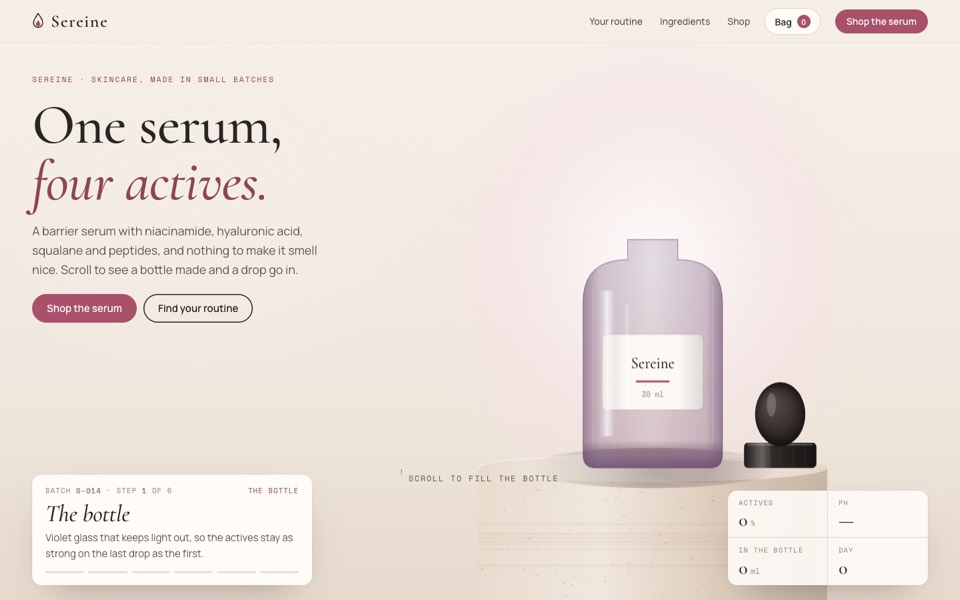
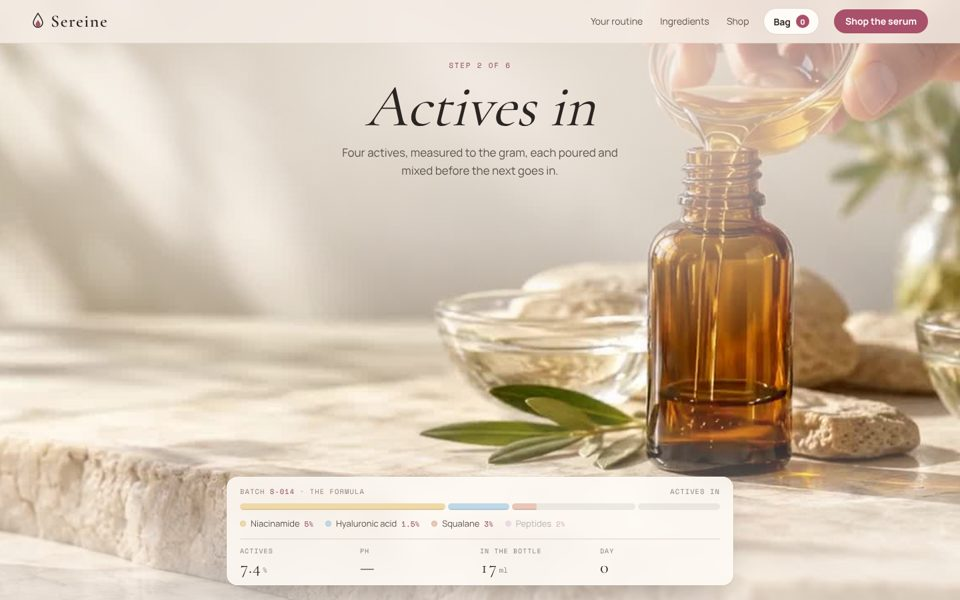
Sereine redesigned v5: the real bottle is filled under a campaign headline while the formula label fills active by active
Claude-Session: https://claude.ai/code/session_0133g3z4wqTvWj4LLKkZ92ba

diff --git a/design-packages/design/sereine/template.html b/design-packages/design/sereine/template.html
@@ -1,11 +1,12 @@
 <!doctype html><html><head><meta charset=utf8><meta name=viewport content="width=device-width,initial-scale=1,viewport-fit=cover"><style>:root{color-scheme:light;box-sizing:border-box;padding-top:env(safe-area-inset-top,0px);padding-bottom:env(safe-area-inset-bottom,0px)}html{scroll-padding-top:env(safe-area-inset-top,0px)}body{margin:0;padding:0;font:14px -apple-system,BlinkMacSystemFont,sans-serif;background:#fff;color:#000}img{max-width:100%}[hidden]:not([hidden=until-found i]){display:none!important}</style></head><body>
 <title>{{business.name}}</title>
+<meta name="description" content="{{hero.lede|attr}}">
 <link rel="preconnect" href="https://fonts.googleapis.com">
 <link rel="preconnect" href="https://fonts.gstatic.com" crossorigin>
 <link href="https://fonts.googleapis.com/css2?family=Cormorant:ital,wght@0,500;0,600;1,500&family=Manrope:wght@400;500;600;700&family=Space+Mono:wght@400&display=swap" rel="stylesheet">
 <style>
-/* Layout: a skincare brand's shop. One pinned product shot where the serum is made, sealed and applied as you scroll,
-   down to a drop sinking into skin and four weeks later; then what a buyer needs: their routine, what's inside, and the
+/* Layout: a skincare brand's shop. The real bottle is filled and capped on screen as you scroll (the brand's own video
+   or photos), headlined like a campaign, while the formula label below fills active by active; then what a buyer needs: their routine, what's inside, and the
    shop. */
 :root{
   color-scheme:light;
@@ -58,47 +59,61 @@ p{margin:0}
 @media (max-width:980px){.nav ul{display:none}.bagbtn{margin-left:auto}}
 @media (max-width:560px){.nav .btn{display:none}.brand{font-size:23px}}
 
-/* hero: the studio */
+/* hero: the real bottle, a campaign headline over it, and the formula label filling below */
 .hero{position:relative;height:560vh}
 .stage{position:sticky;top:0;height:100vh;height:100svh;overflow:hidden;background:var(--clay)}
-#shot{position:absolute;inset:0;width:100%;height:100%;display:block}
-.hero-copy{position:absolute;left:var(--gut);top:calc(env(safe-area-inset-top,0px) + 112px);max-width:520px;z-index:3;display:grid;gap:18px;will-change:transform,opacity}
-.hero-copy::before{content:"";position:absolute;z-index:-1;inset:-110px -150px -90px calc(-1 * var(--gut) - 60px);background:radial-gradient(closest-side,rgba(244,237,230,.94),rgba(244,237,230,.74) 55%,rgba(244,237,230,0));pointer-events:none}
-.hero h1{font-size:clamp(3rem,min(6vw,9.4vh),6rem)}
-.hero h1 em{display:block;color:var(--accent-text)}
-.lede{color:var(--ink-2);max-width:42ch;font-size:clamp(16px,1.3vw,18px)}
-.hero .acts{display:flex;gap:10px;flex-wrap:wrap;margin-top:4px}
-.label{position:absolute;z-index:4;left:var(--gut);bottom:calc(22px + env(safe-area-inset-bottom,0px));width:min(420px,calc(100% - 2*var(--gut)));padding:18px 20px;background:var(--sheet);border-radius:14px;box-shadow:0 24px 60px -30px rgba(42,37,34,.45),0 0 0 1px rgba(42,37,34,.05)}
-.label .row{display:flex;justify-content:space-between;gap:10px;font:400 11px/1.2 var(--f-mono);letter-spacing:.08em;text-transform:uppercase;color:var(--muted)}
-.label .when{color:var(--accent-text)}
-.label h3{font-size:clamp(28px,2.6vw,36px);margin-top:10px;font-style:italic}
-.label p{color:var(--ink-2);font-size:15px;margin-top:6px;min-height:3.1em}
-.dots{display:grid;grid-template-columns:repeat(6,minmax(0,1fr));gap:6px;margin:14px 0 0;padding:0;list-style:none}
-.dots li{position:relative;height:3px;border-radius:2px;background:var(--clay-2);overflow:hidden}
-.dots li::after{content:"";position:absolute;inset:0;transform-origin:0 50%;transform:scaleX(var(--f,0));background:var(--accent)}
-.facts{position:absolute;z-index:4;right:var(--gut);bottom:calc(22px + env(safe-area-inset-bottom,0px));display:grid;grid-template-columns:repeat(2,minmax(0,1fr));margin:0;min-width:300px;background:rgba(255,251,247,.9);backdrop-filter:blur(10px);-webkit-backdrop-filter:blur(10px);border-radius:14px;box-shadow:0 24px 60px -30px rgba(42,37,34,.45),0 0 0 1px rgba(42,37,34,.05);overflow:hidden}
-.facts div{padding:12px 16px;border-right:1px solid var(--line);border-bottom:1px solid var(--line);min-width:0}
-.facts div:nth-child(2n){border-right:0}
-.facts div:nth-child(n+3){border-bottom:0}
-.facts dt{font:400 10.5px/1.2 var(--f-mono);letter-spacing:.1em;text-transform:uppercase;color:var(--muted)}
-.facts dd{margin:6px 0 0;font:500 28px/1 var(--f-display);font-variant-numeric:tabular-nums;white-space:nowrap}
-.facts dd small{font:400 12px var(--f-mono);color:var(--muted);margin-left:4px}
-.hint{position:absolute;z-index:4;left:50%;bottom:calc(170px + env(safe-area-inset-bottom,0px));transform:translateX(-50%);font:400 12px var(--f-mono);letter-spacing:.14em;text-transform:uppercase;color:var(--ink-2);display:flex;align-items:center;gap:10px;pointer-events:none}
-.hint i{display:block;width:1px;height:26px;background:linear-gradient(var(--ink-2),transparent);animation:cue 1.6s ease-in-out infinite}
+#shot{display:none}
+.stage .poster,#film{position:absolute;inset:0;width:100%;height:100%;display:block;z-index:0}
+.stage .poster{object-fit:cover}
+.veil{position:absolute;inset:0;z-index:1;pointer-events:none;background:radial-gradient(70% 46% at 50% 14%,rgba(244,237,230,.9),rgba(244,237,230,.55) 55%,rgba(244,237,230,0)),linear-gradient(0deg,rgba(244,237,230,.75),rgba(244,237,230,0) 34%)}
+.hero-copy{position:absolute;left:50%;top:calc(env(safe-area-inset-top,0px) + 96px);width:min(760px,calc(100% - 2*var(--gut)));transform:translateX(-50%);z-index:3;display:grid;justify-items:center;text-align:center;gap:16px;will-change:transform,opacity}
+.hero h1{font-size:clamp(3rem,min(6.6vw,10vh),6.6rem)}
+.hero h1 em{color:var(--accent-text)}
+.lede{color:var(--ink-2);max-width:48ch;font-size:clamp(16px,1.3vw,18px)}
+.hero .acts{display:flex;gap:10px;flex-wrap:wrap;justify-content:center;margin-top:4px}
+.split .w{display:inline-block;overflow:hidden;vertical-align:top;padding-bottom:.22em;margin-bottom:-.14em}
+.split .w>i{display:inline-block;font-style:inherit;animation:wrise .9s cubic-bezier(.16,1,.3,1) both}
+@keyframes wrise{from{transform:translateY(108%)}}
+.hint{position:absolute;z-index:4;left:50%;bottom:calc(206px + env(safe-area-inset-bottom,0px));transform:translateX(-50%);font:400 11px var(--f-mono);letter-spacing:.14em;text-transform:uppercase;color:var(--muted);display:flex;align-items:center;gap:10px;pointer-events:none}
+.hint i{display:block;width:1px;height:22px;background:linear-gradient(var(--muted),transparent);animation:cue 1.6s ease-in-out infinite}
 @keyframes cue{0%{transform:scaleY(.2);transform-origin:top}50%{transform:scaleY(1);transform-origin:top}100%{transform:scaleY(.2);transform-origin:bottom}}
+/* the campaign line: each step's name, set big and italic where the title was */
+.fcap{position:absolute;z-index:3;left:50%;top:calc(env(safe-area-inset-top,0px) + 92px);width:min(760px,calc(100% - 2*var(--gut)));transform:translateX(-50%);text-align:center;display:grid;justify-items:center;gap:10px;opacity:0;visibility:hidden;transition:opacity .45s,visibility .45s}
+.fcap.on{opacity:1;visibility:visible}
+.fcap .k{font:400 11px/1.2 var(--f-mono);letter-spacing:.16em;text-transform:uppercase;color:var(--accent-text)}
+.fcap h2{font:italic 500 clamp(3rem,min(6.4vw,10vh),6.4rem)/1 var(--f-display)}
+.fcap h2.in{animation:capin .7s cubic-bezier(.16,1,.3,1) both}
+@keyframes capin{from{opacity:0;transform:translateY(.25em);filter:blur(6px)}}
+.fcap p{color:var(--ink-2);max-width:44ch;font-size:clamp(15px,1.2vw,17px);min-height:3.2em}
+/* the formula label: a band per active, as wide as its share, filling as it's poured in */
+.fml{position:absolute;z-index:4;left:50%;bottom:calc(22px + env(safe-area-inset-bottom,0px));transform:translateX(-50%);width:min(760px,calc(100% - 2*var(--gut)));padding:16px 20px 14px;background:rgba(255,251,247,.86);backdrop-filter:blur(14px);-webkit-backdrop-filter:blur(14px);border-radius:16px;box-shadow:0 24px 60px -30px rgba(42,37,34,.45),0 0 0 1px rgba(42,37,34,.06)}
+.fml-hd{display:flex;justify-content:space-between;gap:10px;font:400 10.5px/1.2 var(--f-mono);letter-spacing:.1em;text-transform:uppercase;color:var(--muted)}
+.fml-hd b{color:var(--accent-text);font-weight:400}
+.fbar{display:flex;gap:4px;margin-top:12px}
+.fbar .act{flex:var(--w) 1 0;min-width:0}
+.fbar .act i{display:block;height:10px;border-radius:5px;background:rgba(42,37,34,.08);overflow:hidden;position:relative}
+.fbar .act i::after{content:"";position:absolute;inset:0;background:var(--c);box-shadow:inset 0 -2px 0 rgba(0,0,0,.08);transform-origin:0 50%;transform:scaleX(var(--f,0))}
+.flegend{display:flex;flex-wrap:wrap;gap:6px 18px;margin-top:10px}
+.flegend span{display:inline-flex;align-items:center;gap:7px;font-size:13px;color:var(--ink-2);opacity:.42;transition:opacity .3s}
+.flegend span::before{content:"";width:9px;height:9px;border-radius:50%;background:var(--c);box-shadow:inset 0 0 0 1px rgba(0,0,0,.08)}
+.flegend span b{font:400 11px var(--f-mono);color:var(--accent-text)}
+.flegend span.in{opacity:1}
+.fread{display:grid;grid-template-columns:repeat(4,minmax(0,1fr));margin:12px 0 0;padding-top:12px;border-top:1px solid var(--line)}
+.fread dt{font:400 10px/1.2 var(--f-mono);letter-spacing:.1em;text-transform:uppercase;color:var(--muted)}
+.fread dd{margin:5px 0 0;font:500 26px/1 var(--f-display);font-variant-numeric:tabular-nums;white-space:nowrap}
+.fread dd small{font:400 11px var(--f-mono);color:var(--muted);margin-left:3px}
 @media (max-width:820px){
-  .hero-copy{top:calc(env(safe-area-inset-top,0px) + 84px);max-width:none;right:var(--gut);gap:14px}
+  .veil{background:radial-gradient(120% 40% at 50% 12%,rgba(244,237,230,.92),rgba(244,237,230,.5) 60%,rgba(244,237,230,0)),linear-gradient(0deg,rgba(244,237,230,.8),rgba(244,237,230,0) 40%)}
+  .hero-copy{top:calc(env(safe-area-inset-top,0px) + 80px);gap:12px}
   .hero .acts{display:none}
-  .facts{left:var(--gut);right:var(--gut);min-width:0;grid-template-columns:repeat(4,minmax(0,1fr));bottom:calc(186px + env(safe-area-inset-bottom,0px))}
-  .facts div{padding:9px 10px;border-bottom:0}
-  .facts div:nth-child(2n){border-right:1px solid var(--line)}
-  .facts div:last-child{border-right:0}
-  .facts dt{font-size:9px;letter-spacing:.04em}
-  .facts dd{font-size:clamp(18px,5vw,22px)}
-  .facts dd small{display:none}
-  .label{bottom:calc(14px + env(safe-area-inset-bottom,0px));padding:14px 16px}
-  .label p{font-size:14px;min-height:4.4em}
   .hint{display:none}
+  .fcap{top:calc(env(safe-area-inset-top,0px) + 78px)}
+  .fcap h2{font-size:clamp(2.4rem,11vw,3.2rem)}
+  .fcap p{font-size:14px}
+  .fml{padding:12px 14px 10px;border-radius:12px}
+  .flegend{gap:4px 12px}
+  .flegend span{font-size:11.5px}
+  .fread dd{font-size:20px}
 }
 
 /* sections */
@@ -215,27 +230,30 @@ footer{background:var(--ink);color:var(--clay);padding:clamp(70px,9vw,120px) var
 </nav>
 
 <main>
-<section class="hero" id="top" aria-label="The serum made, sealed and applied, scroll to run it">
+<section class="hero" id="top" aria-label="The serum made, sealed and applied; scroll to run it">
   <div class="stage" id="stage">
     <canvas id="shot" aria-hidden="true"></canvas>
+{{#if $.film.poster}}    <img class="poster" src="{{$.film.poster|attr}}" alt="" aria-hidden="true">
+{{/if}}    <canvas id="film" role="img" aria-label="A bottle of {{brand.name|attr}} serum filled and capped with a dropper"></canvas>
+    <div class="veil" aria-hidden="true"></div>
     <div class="hero-copy" id="heroCopy">
       <p class="eyebrow">{{hero.eyebrow}}</p>
       <h1>{{hero.title}} <em>{{hero.titleEm}}</em></h1>
       <p class="lede">{{hero.lede}}</p>
       <div class="acts"><a class="btn" href="#shop">{{hero.cta}}</a><a class="btn ghost" href="#routine">{{hero.cta2}}</a></div>
     </div>
+    <div class="fcap" id="fcap" aria-live="polite"><span class="k" id="cK">Step 1 of 6</span><h2 id="cN">{{stages.0.n}}</h2><p id="cT">{{stages.0.c}}</p></div>
     <div class="hint" id="hint"><i></i>{{hero.hint}}</div>
-    <dl class="facts" id="facts" aria-live="off">
-      <div><dt>Actives</dt><dd id="xAct">0<small>%</small></dd></div>
-      <div><dt>pH</dt><dd id="xPh">—</dd></div>
-      <div><dt>In the bottle</dt><dd id="xMl">0<small>ml</small></dd></div>
-      <div><dt>Day</dt><dd id="xDay">0</dd></div>
-    </dl>
-    <div class="label" id="label" aria-live="polite">
-      <div class="row"><span>Batch <b id="lBatch">{{batch.ref}}</b> · Step <b id="lNum">1</b> of 6</span><span class="when" id="lWhen">{{stages.0.n}}</span></div>
-      <h3 id="lTitle">{{stages.0.n}}</h3>
-      <p id="lText">{{stages.0.c}}</p>
-      <ol class="dots" id="dots" aria-hidden="true"></ol>
+    <div class="fml" id="fml">
+      <div class="fml-hd"><span>Batch <b>{{batch.ref}}</b> · the formula</span><span id="fStep">{{stages.0.n}}</span></div>
+      <div class="fbar" id="fbar" aria-hidden="true"></div>
+      <div class="flegend" id="flegend"></div>
+      <dl class="fread">
+        <div><dt>Actives</dt><dd id="xAct">0<small>%</small></dd></div>
+        <div><dt>pH</dt><dd id="xPh">—</dd></div>
+        <div><dt>In the bottle</dt><dd id="xMl">0<small>ml</small></dd></div>
+        <div><dt>Day</dt><dd id="xDay">0</dd></div>
+      </dl>
     </div>
   </div>
 </section>
@@ -338,6 +356,7 @@ const GLASS={{batch.glass|upper|js}};           // the bottle's tinted glass
 const ACCENT='{{A:#A9506A}}';
 
 /* ============ BOTTLES (shared with the shop and the routine) ============ */
+const DPR=Math.min(devicePixelRatio||1,2);
 // kind: dropper | pump | jar | tube; fill 0..1 with layers [{col, frac}] from the bottom
 // glass: tinted, darker where it's thickest at the edges, a heavy base, the studio light's two reflections down the side
 function glassBody(c,path,x0,x1,y0,y1,glass){const g=c.createLinearGradient(x0,0,x1,0);g.addColorStop(0,rgba(glass,.62));g.addColorStop(.12,rgba(glass,.3));g.addColorStop(.5,rgba(glass,.18));g.addColorStop(.88,rgba(glass,.32));g.addColorStop(1,rgba(glass,.66));c.fillStyle=g;c.fill(path);
@@ -388,115 +407,47 @@ function shine(c,x,y,h,s){const g=c.createLinearGradient(x,0,x+s*.05,0);g.addCol
   const g2=c.createLinearGradient(x+s*.08,0,x+s*.1,0);g2.addColorStop(0,'rgba(255,255,255,0)');g2.addColorStop(.5,'rgba(255,255,255,.3)');g2.addColorStop(1,'rgba(255,255,255,0)');c.fillStyle=g2;c.fillRect(x+s*.08,y+h*.1,s*.02,h*.7);}
 window.SR_bottle=(c,cx,base,h,o)=>bottle(0,c,cx,base,h,o);
 
-/* ============ THE STUDIO ============ */
-const cv=$('#shot'), ctx=cv.getContext('2d');
-let W=0,H=0,DPR=1,mobile=false,G={};
-function layout(){W=cv.clientWidth;H=cv.clientHeight;DPR=Math.min(devicePixelRatio||1,TOUCH?1.5:2);cv.width=Math.round(W*DPR);cv.height=Math.round(H*DPR);mobile=W<820;
-  // the bottle starts centre stage and steps aside (off the screen on a phone) when the skin window comes in
-  G=mobile?{h:Math.min(H*.3,W*.66),bx0:W*.5,bx1:-W*.9,base:H*.64,skin:[W*.06,H*.3,W*.88,H*.32]}:{h:Math.min(H*.56,W*.33),bx0:W*.68,bx1:W*.5,base:H*.78,skin:[W*.64,H*.3,W*.3,H*.46]};G.bx=G.bx0;last=-1;}
-function sweep(p,time){const g=ctx.createLinearGradient(0,0,0,H);g.addColorStop(0,'#F7F1EB');g.addColorStop(.7,'#EFE5DB');g.addColorStop(1,'#E6D9CD');ctx.fillStyle=g;ctx.fillRect(0,0,W,H);
-  // a soft disc of light behind the product
-  const cx=G.bx, cy=mobile?H*.34:H*.44, r=mobile?W*.5:Math.min(W*.24,H*.42);const dg=ctx.createRadialGradient(cx,cy,0,cx,cy,r);dg.addColorStop(0,'rgba(255,255,255,.9)');dg.addColorStop(.7,'rgba(246,227,231,.5)');dg.addColorStop(1,'rgba(246,227,231,0)');ctx.fillStyle=dg;ctx.fillRect(0,0,W,H);
-  // the plinth: a round column, lit from the left
-  // the plinth: a column of travertine, lit from the left, its pores and bands, a soft edge on the top
-  const pw=G.h*1.15, ph=G.h*.12;const cg=ctx.createLinearGradient(G.bx-pw/2,0,G.bx+pw/2,0);cg.addColorStop(0,'#E9DCCF');cg.addColorStop(.35,'#F1E7DD');cg.addColorStop(.7,'#DCCBBB');cg.addColorStop(1,'#C9B6A5');ctx.fillStyle=cg;ctx.fillRect(G.bx-pw/2,G.base,pw,H);
-  const rs=rng(61);ctx.save();ctx.beginPath();ctx.rect(G.bx-pw/2,G.base,pw,H);ctx.clip();for(let i=0;i<9;i++){const yy=G.base+rs()*(H-G.base);ctx.fillStyle=`rgba(170,140,115,${.05+rs()*.06})`;ctx.fillRect(G.bx-pw/2,yy,pw,1+rs()*3);}for(let i=0;i<260;i++){ctx.fillStyle=`rgba(150,120,95,${.12+rs()*.18})`;ctx.beginPath();ctx.ellipse(G.bx-pw/2+rs()*pw,G.base+rs()*(H-G.base),.6+rs()*1.8,.4+rs()*.8,0,0,7);ctx.fill();}ctx.restore();
-  const tg=ctx.createRadialGradient(G.bx-pw*.15,G.base-ph*.1,0,G.bx,G.base,pw*.55);tg.addColorStop(0,'#F8F2EB');tg.addColorStop(1,'#E4D6C8');ctx.fillStyle=tg;ctx.beginPath();ctx.ellipse(G.bx,G.base,pw/2,ph*.35,0,0,7);ctx.fill();ctx.strokeStyle='rgba(255,255,255,.6)';ctx.lineWidth=1;ctx.beginPath();ctx.ellipse(G.bx,G.base,pw/2-1,ph*.35-1,0,Math.PI*.95,Math.PI*1.9);ctx.stroke();}
+/* ============ THE FILM ============ */
+const hero=$('#top'), copy=$('#heroCopy'), hint=$('#hint'), fcap=$('#fcap'), cN=$('#cN');
+const STILL=/[?&]still\b/.test(location.search), FLAT=RM||STILL;
+if(FLAT)document.documentElement.classList.add('flat');
+{{$.film.runtime|raw}}
+const film=SRFilm($('#film'),{{$.film.json|raw}},{flat:FLAT,fx:.62,fy:.5});
+let inFrame=false;try{inFrame=window.self!==window.top}catch(e){inFrame=true}
+let AUTO=inFrame&&scrollY<1&&!FLAT;
+if(AUTO)addEventListener('scroll',()=>{if(AUTO&&scrollY>=1){AUTO=false;film.poke()}},{passive:true});
 
-/* the skin, in cross-section: a barrier of flat cells, living cells below, fibres at the bottom */
-const cells=[...Array(90)].map((_,i)=>{const r=rng(500+i);return{x:r(),y:r(),s:.5+r()*.6,jx:(r()-.5),jy:(r()-.5)};});
-// the section as it looks under a microscope, stained: living layers packed with cells and their nuclei, the
-// basal layer dipping into the dermis, collagen and a capillary below (drawn once per size)
-let SKB=null;
-function skinBase(w,h){if(SKB&&SKB.w===w&&SKB.h===h)return SKB.c;const c=document.createElement('canvas');c.width=Math.round(w*DPR);c.height=Math.round(h*DPR);const g=c.getContext('2d');g.setTransform(DPR,0,0,DPR,0,0);const r=rng(77);
-  g.fillStyle='#F7EAEC';g.fillRect(0,0,w,h);
-  const basal=t=>h*(.62+.05*Math.sin(t*Math.PI*6+.6)+.015*Math.sin(t*Math.PI*17));
-  // dermis: loose pink collagen in wavy bundles, fibroblast nuclei, a capillary with red cells
-  {g.save();g.beginPath();g.moveTo(0,h);for(let t=0;t<=1.0001;t+=.01)g.lineTo(t*w,basal(t));g.lineTo(w,h);g.closePath();g.clip();g.fillStyle='#F2D3DA';g.fillRect(0,0,w,h);
-   for(let i=0;i<120;i++){const y0=h*(.62+r()*.4), x0=r()*w, L=w*(.08+r()*.25);g.strokeStyle=`rgba(214,120,150,${.15+r()*.25})`;g.lineWidth=.8+r()*1.6;g.beginPath();g.moveTo(x0,y0);for(let t=0;t<=1;t+=.1)g.lineTo(x0+t*L,y0+Math.sin(t*6+i)*h*.008);g.stroke();}
-   for(let i=0;i<26;i++){const px=r()*w, py=h*(.72+r()*.26);g.fillStyle='rgba(92,55,120,.75)';g.beginPath();g.ellipse(px,py,w*(.01+r()*.008),h*.0045,r()*.4-.2,0,7);g.fill();}
-   const cx=w*.7, cy=h*.84, cr=w*.045;g.strokeStyle='rgba(190,90,120,.7)';g.lineWidth=2;g.beginPath();g.arc(cx,cy,cr,0,7);g.stroke();g.fillStyle='rgba(250,235,238,.9)';g.beginPath();g.arc(cx,cy,cr-1,0,7);g.fill();for(let i=0;i<6;i++){const a=i*1.1;g.fillStyle='rgba(205,70,85,.85)';g.beginPath();g.ellipse(cx+Math.cos(a)*cr*.45,cy+Math.sin(a)*cr*.45,cr*.22,cr*.16,a,0,7);g.fill();}g.restore();}
-  // living epidermis: polygonal cells with pale cytoplasm, a purple nucleus each, flatter towards the top
-  {g.save();g.beginPath();g.moveTo(0,h*.33);g.lineTo(w,h*.33);for(let t=1;t>=0;t-=.01)g.lineTo(t*w,basal(t));g.closePath();g.clip();g.fillStyle='#F4DCE4';g.fillRect(0,0,w,h);
-   for(let row=0;row<14;row++){const yy=h*(.34+row*.024), flat=1-row/14;for(let i=0;i<22;i++){const px=(i+(row%2)*.5+(r()-.5)*.3)/22*w, py=yy+(r()-.5)*h*.008, cw=w/22*.48, ch=h*(.009+.01*(1-flat));g.fillStyle=`rgba(236,190,206,${.55+r()*.3})`;g.beginPath();g.ellipse(px,py,cw,ch,0,0,7);g.fill();g.strokeStyle='rgba(200,130,160,.35)';g.lineWidth=.8;g.stroke();
-      g.fillStyle=row<3?'rgba(70,35,90,.75)':'rgba(92,55,130,.78)';g.beginPath();g.ellipse(px+(r()-.5)*cw*.3,py,cw*(row<3?.5:.32),ch*(row<3?.25:.55),0,0,7);g.fill();if(row<3){g.fillStyle='rgba(60,30,80,.6)';for(let k=0;k<3;k++){g.beginPath();g.arc(px+(r()-.5)*cw*1.4,py+(r()-.5)*ch,.9,0,7);g.fill();}}}}
-   g.restore();}
-  // the basal row: dense, dark nuclei along the wavy border
-  for(let t=0;t<=1;t+=.012){const px=t*w, py=basal(t)-h*.012;g.fillStyle='rgba(70,40,110,.85)';g.beginPath();g.ellipse(px,py,w*.006,h*.011,Math.cos(t*Math.PI*6)*.4,0,7);g.fill();}
-  g.strokeStyle='rgba(180,100,140,.5)';g.lineWidth=1.2;g.beginPath();for(let t=0;t<=1.0001;t+=.01){const p=[t*w,basal(t)];t?g.lineTo(...p):g.moveTo(...p);}g.stroke();
-  SKB={c,w,h};return c;}
-function skin(a,f,time){if(a<=0)return;const [x,y,w,h]=G.skin;ctx.save();ctx.globalAlpha=a;
-  ctx.shadowColor='rgba(60,40,30,.25)';ctx.shadowBlur=30;ctx.shadowOffsetY=10;ctx.fillStyle='#F6E4DA';rr(ctx,x,y,w,h,22);ctx.fill();ctx.shadowColor='transparent';
-  rr(ctx,x,y,w,h,22);ctx.clip();
-  const heal=sm(seg(f[5],.1,.8)), drop=seg(f[4],0,1);
-  ctx.drawImage(skinBase(w,h),x,y,w,h);
-  // the barrier on top: thin, flattened layers in a basket-weave, open and lifting where it's damaged, closed once it heals
-  const rows=7, top=y+h*.12, gap=lerp(1,0,heal);
-  for(let r2=0;r2<rows;r2++){const R=rng(r2*31+9), yb=top+r2*h*(.028+gap*.006);ctx.strokeStyle=`rgba(${Math.round(lerp(222,232,heal))},${Math.round(lerp(140,160,heal))},${Math.round(lerp(170,180,heal))},${.75+.2*heal})`;ctx.lineWidth=Math.max(1.4,h*.012);ctx.lineCap='round';
-    let px=x-10;while(px<x+w+10){const L=w*(.12+R()*.2)*(1+heal*1.5), br=w*(.015+R()*.03)*gap;ctx.beginPath();for(let t=0;t<=1.0001;t+=.1){const xx=px+t*L, yy=yb+Math.sin((xx-x)/w*14+r2*1.7)*h*.004*(1+gap*2)-(gap*R()*h*.012)*Math.sin(t*Math.PI);t?ctx.lineTo(xx,yy):ctx.moveTo(xx,yy);}ctx.stroke();px+=L+br;}}
-  // the surface line, rough then smooth
-  ctx.strokeStyle='rgba(170,110,100,.5)';ctx.lineWidth=2;ctx.beginPath();for(let t=0;t<=1;t+=.02){const xx=x+t*w, yy=top-6+Math.sin(t*40)*3*(1-heal)+Math.sin(t*13)*2*(1-heal);t?ctx.lineTo(xx,yy):ctx.moveTo(xx,yy);}ctx.stroke();
-  // the drop sinking in: it lands, flattens, then its actives spread down as specks
-  if(drop>0){const cx=x+w/2;const land=sm(seg(drop,0,.25));const r0=w*.06;ctx.fillStyle=`rgba(255,255,255,${.75*(1-seg(drop,.3,.7))})`;ctx.beginPath();ctx.ellipse(cx,top-6-r0*.4*(1-land),r0*(1+land*1.8),r0*.5*(1-land*.6),0,0,7);ctx.fill();
-    const sp=sm(seg(drop,.25,1));for(let i=0;i<70;i++){const R=rng(900+i);const act=ACTIVES[i%ACTIVES.length];const d=sp*(.3+R()*.7);const ang=(R()-.5)*1.6;const px=cx+Math.sin(ang)*w*.45*d, py=top+h*.5*d*(.4+R()*.6);ctx.fillStyle=rgba(act.col,.95*(1-heal*.6));ctx.beginPath();ctx.arc(px,py,Math.max(2.4,w*.011),0,7);ctx.fill();}
-    // rings where it went in
-    const rg=seg(drop,.2,.9);if(rg>0&&rg<1)for(let k=0;k<3;k++){const t=clamp(rg*1.3-k*.15);if(t<=0||t>=1)continue;ctx.strokeStyle=rgba(ACCENT,.45*(1-t));ctx.lineWidth=2;ctx.beginPath();ctx.ellipse(cx,top-6,w*.08+w*.3*t,h*.02+h*.05*t,0,0,7);ctx.stroke();}}
-  // a glow once it has worked
-  if(heal>0){const g=ctx.createLinearGradient(0,y,0,y+h*.4);g.addColorStop(0,`rgba(255,240,235,${.5*heal})`);g.addColorStop(1,'rgba(255,240,235,0)');ctx.fillStyle=g;ctx.fillRect(x,y,w,h*.4);}
-  ctx.restore();
-  // the window's caption
-  ctx.save();ctx.globalAlpha=a;ctx.fillStyle='#8D817A';ctx.font='400 11px "Space Mono",monospace';ctx.fillText(heal>.5?'SKIN · DAY '+DAYS:'SKIN · CROSS-SECTION',x+4,y-10);ctx.restore();}
-
-/* ============ HUD ============ */
-const dl=$('#dots');STAGES.forEach(()=>dl.appendChild(document.createElement('li')));
-const dotEls=[...dl.children];let shown=-1;
+/* ============ THE FORMULA ============ */
+const esc=s=>String(s).replace(/[<>&"]/g,c=>({'<':'&lt;','>':'&gt;','&':'&amp;','"':'&quot;'}[c]));
+$('#fbar').innerHTML=ACTIVES.map(a=>`<div class="act" style="--w:${Math.max(a.pct,1.2)};--c:${a.col}"><i></i></div>`).join('');
+$('#flegend').innerHTML=ACTIVES.map(a=>`<span style="--c:${a.col}">${esc(a.n)} <b>${a.pct}%</b></span>`).join('');
+const acts=[...$('#fbar').children], keys=[...$('#flegend').children];let shown=-1;
 function hud(p,f,poured){let idx=0;STAGES.forEach((s,i)=>{if(p>=s.w[0])idx=i;});
-  if(idx!==shown){shown=idx;$('#lNum').textContent=idx+1;$('#lTitle').textContent=STAGES[idx].n;$('#lText').textContent=STAGES[idx].c;$('#lWhen').textContent=STAGES[idx].n;}
-  dotEls.forEach((li,i)=>li.style.setProperty('--f',f[i].toFixed(3)));
+  if(idx!==shown){shown=idx;$('#cK').textContent=`Step ${idx+1} of ${STAGES.length}`;cN.textContent=STAGES[idx].n;$('#cT').textContent=STAGES[idx].c;$('#fStep').textContent=STAGES[idx].n;
+    if(!FLAT){cN.classList.remove('in');void cN.offsetWidth;cN.classList.add('in');}}
+  acts.forEach((el,i)=>{const k=clamp(poured-i);el.style.setProperty('--f',sm(k).toFixed(3));keys[i].classList.toggle('in',k>0);});
   const act=ACTIVES.reduce((a,x,i)=>a+x.pct*clamp(poured-i),0);$('#xAct').innerHTML=`${(Math.round(act*10)/10).toString()}<small>%</small>`;
   $('#xPh').textContent=f[2]>.3?PH.toFixed(1):'—';$('#xMl').innerHTML=`${Math.round(ML*clamp(poured/ACTIVES.length))}<small>ml</small>`;
   $('#xDay').textContent=Math.round(DAYS*sm(seg(f[5],.1,.8)));}
 
 /* ============ FRAME ============ */
-const hero=$('#top'), copy=$('#heroCopy'), hint=$('#hint');
-let cur=0,last=-1;const t0=performance.now();
+let cur=0;const t0=performance.now();
+const mobile=()=>innerWidth<820;
 function frame(p,time){
-  ctx.setTransform(DPR,0,0,DPR,0,0);
-  const f=STAGES.map(s=>seg(p,s.w[0],s.w[1]));
-  G.bx=lerp(G.bx0,G.bx1,sm(seg(f[3],0,.35)));
-  sweep(p,time);
-  // pouring: each active in turn, a stream from above then its layer
-  const n=ACTIVES.length, poured=f[1]*n;
-  const layers=ACTIVES.map((a,i)=>({col:a.col,frac:clamp(poured-i)*(1/n)*.86}));
-  // the cap stands on the plinth beside the bottle, is lifted on in an arc, and later carried to the skin
-  const on=sm(seg(f[2],.1,.7)), out=sm(seg(f[3],0,.4)), back=sm(seg(f[4],.35,.95));
-  const capX=lerp(G.h*.42,0,on), capLift=lerp(-G.h*.665,0,on)+Math.sin(on*Math.PI)*G.h*.35;
-  // the dropper travels to the skin window and back
-  const [sx,sy,sw]=G.skin;const tx=sx+sw/2-G.bx, ty=G.base-G.h*.68-(sy-G.h*.2);
-  const trav=out*(1-back);const dropCapX=lerp(capX,tx,trav), dropLift=lerp(capLift,ty,trav)+trav*G.h*.05;
-  const squeeze=sm(seg(f[3],.45,.65))*(1-seg(f[3],.75,.9));
-  bottle(0,ctx,G.bx,G.base,G.h,{kind:'dropper',layers,capX:on<1||trav>0?dropCapX:0,capLift:on<1||trav>0?dropLift:0,squeeze,name:NAME,sub:`${ML} ml`});
-  // stream while pouring
-  if(f[1]>0&&f[1]<1){const i=Math.min(n-1,Math.floor(poured)), a=ACTIVES[i], k=poured-i;if(k>.05&&k<.95){const top=G.base-G.h*.62-G.h*.1;ctx.strokeStyle=rgba(a.col,.9);ctx.lineWidth=G.h*.012;ctx.beginPath();ctx.moveTo(G.bx+(RM?0:Math.sin(time*6)*1.5),0);ctx.lineTo(G.bx,top+G.h*.4*(1-poured/n));ctx.stroke();
-    // the active's name beside the bottle
-    ctx.fillStyle='#2A2522';ctx.font=`500 ${mobile?18:24}px Cormorant,Georgia,serif`;ctx.textAlign=mobile?'center':'right';const lx=mobile?G.bx:G.bx-G.h*.32, ly=mobile?G.base+G.h*.2:G.base-G.h*.5;ctx.globalAlpha=sm(seg(k,.05,.25))*(1-sm(seg(k,.8,.95)));ctx.fillText(a.n,lx,ly);ctx.font='400 12px "Space Mono",monospace';ctx.fillStyle=ACCENT;ctx.fillText(`${a.pct}%`,lx,ly+20);ctx.globalAlpha=1;ctx.textAlign='left';}}
-  // the drop: forms at the tip while squeezed, then falls into the skin window
-  const skinA=sm(seg(f[3],.2,.6));skin(skinA,f,time);
-  const fall=seg(f[3],.62,1);if(fall>0&&f[4]<.1){const x=G.bx+tx, y0=G.base-G.h*.62-dropLift+G.h*.06, y1=sy+G.skin[3]*.12-6;const y=lerp(y0,y1,fall*fall);ctx.fillStyle='rgba(255,255,255,.9)';ctx.strokeStyle='{{A:rgba(169,80,106,.35)}}';ctx.beginPath();const r=G.h*.022;ctx.moveTo(x,y-r*2.2);ctx.quadraticCurveTo(x+r*1.2,y-r*.2,x,y+r);ctx.quadraticCurveTo(x-r*1.2,y-r*.2,x,y-r*2.2);ctx.fill();ctx.stroke();}
-  const k=mobile?seg(p,.01,.05):seg(p,.06,.12);copy.style.opacity=(1-k).toFixed(3);copy.style.transform=`translateY(${(-k*24).toFixed(1)}px)`;copy.style.visibility=k>=1?'hidden':'visible';
+  const f=FLAT?STAGES.map(()=>1):STAGES.map(s=>seg(p,s.w[0],s.w[1]));
+  // the film is the bottle filled and capped: it runs over the first four steps and holds on the capped bottle
+  film.draw(FLAT?1:AUTO?(time/Math.max(4,film.seconds()))%1:clamp(p/.62),time);
+  const k=mobile()?seg(p,.01,.05):seg(p,.05,.11);copy.style.opacity=(1-k).toFixed(3);copy.style.transform=`translate(-50%,${(-k*24).toFixed(1)}px)`;copy.style.visibility=k>=1?'hidden':'visible';
+  fcap.classList.toggle('on',FLAT||k>=1);
   hint.style.opacity=(1-seg(p,0,.03)).toFixed(3);
-  hud(p,f,poured);
+  hud(FLAT?1:p,f,f[1]*ACTIVES.length);
 }
 function target(){const r=hero.getBoundingClientRect();return clamp(-r.top/(r.height-innerHeight));}
-// phones (Safari above all) give up on pages that redraw and re-make big canvases too often: draw only while the
-// hero is on screen, at a gentler rate while nothing is scrolling, and lay out again only when the canvas's size changes
 let gLast=-1e9,gForce=90;
-addEventListener('resize',()=>{gForce=30;});if(document.fonts&&document.fonts.ready)document.fonts.ready.then(()=>{gForce=30;});
-function gate(now){const r=cv.getBoundingClientRect();if(r.bottom<=0||r.top>=innerHeight)return true;if(gForce>0){gForce--;gLast=now;return false;}
+addEventListener('resize',()=>{gForce=30;film.size();});if(document.fonts&&document.fonts.ready)document.fonts.ready.then(()=>{gForce=30;});
+function gate(now){if(AUTO)return false;const r=$('#stage').getBoundingClientRect();if(r.bottom<=0||r.top>=innerHeight)return true;if(gForce>0){gForce--;gLast=now;return false;}
   if(Math.abs(target()-cur)>.0004){gLast=now;return false;}if(RM||now-gLast<(TOUCH?50:33))return true;gLast=now;return false;}
 function loop(now){if(gate(now)){requestAnimationFrame(loop);return;}const time=(now-t0)/1000, t=target();cur=RM?t:cur+(t-cur)*.14;if(Math.abs(t-cur)<.0004)cur=t;frame(cur,RM?0:time);requestAnimationFrame(loop);}
-layout();
-let rz;addEventListener('resize',()=>{clearTimeout(rz);rz=setTimeout(()=>{const w=cv.clientWidth,h=cv.clientHeight;if(w===gW&&h===gH)return;gW=w;gH=h;layout();},120);});
 requestAnimationFrame(loop);
 window.SR_actives=ACTIVES;
 })();
@@ -589,4 +540,11 @@ if(document.fonts&&document.fonts.ready)document.fonts.ready.then(()=>{shop();ro
 })();
 </script>
 
+<script>
+/* the title arrives word by word */
+(function(){if(matchMedia('(prefers-reduced-motion: reduce)').matches||/[?&]still\b/.test(location.search))return;const h=document.querySelector('[data-split]')||document.querySelector('main h1:not(.sr)');if(!h)return;const parts=[...h.childNodes];h.textContent='';let k=0;
+ const unit=el=>{const w=document.createElement('span');w.className='w';el.style.animationDelay=(150+k++*80)+'ms';w.appendChild(el);h.appendChild(w)};
+ parts.forEach(n=>{if(n.nodeType===3)n.textContent.split(/(\s+)/).forEach(x=>{if(!x)return;if(/^\s+$/.test(x)){h.appendChild(document.createTextNode(' '));return}const i=document.createElement('i');i.textContent=x;unit(i)});else if(n.nodeType===1){if(getComputedStyle(n).display==='block'){h.appendChild(n);return}const i=document.createElement('i');i.appendChild(n);unit(i)}});
+ h.classList.add('split')})();
+</script>
 </body></html>

diff --git a/design-packages/design/sereine/hooks.js b/design-packages/design/sereine/hooks.js
@@ -4,6 +4,7 @@
 'use strict';
 const { FILTERS } = require('../../engine/template');
 const js = FILTERS.js;
+const film = require('../../engine/film');
 
 const WINDOWS = ['[0,.14]', '[.14,.42]', '[.42,.54]', '[.54,.68]', '[.68,.84]', '[.84,1]'];
 const list = (a) => a.map(js).join(',');
@@ -14,6 +15,7 @@ function derive(c) {
   const cur = c.locale.currency, S = c.shop;
   return {
     brandSaid: c.brand.name.replace(/\s*&\s*/g, ' and '),
+    film: film.derive(c, null, [169, 80, 106]),
     stagesJs: c.stages.map((s, i) => ` {n:${js(s.n)},c:${js(s.c)},w:${WINDOWS[i]}}`).join(',\n'),
     activesJs: c.actives.map((a) => ` {n:${js(a.n)},pct:${num(a.pct)},col:${js(a.col.toUpperCase())}}`).join(',\n'),
     batchJs: `const BATCH=${js(c.batch.ref)}, ML=${c.batch.ml}, PH=${num(c.batch.ph)}, DAYS=${c.batch.days};`,
